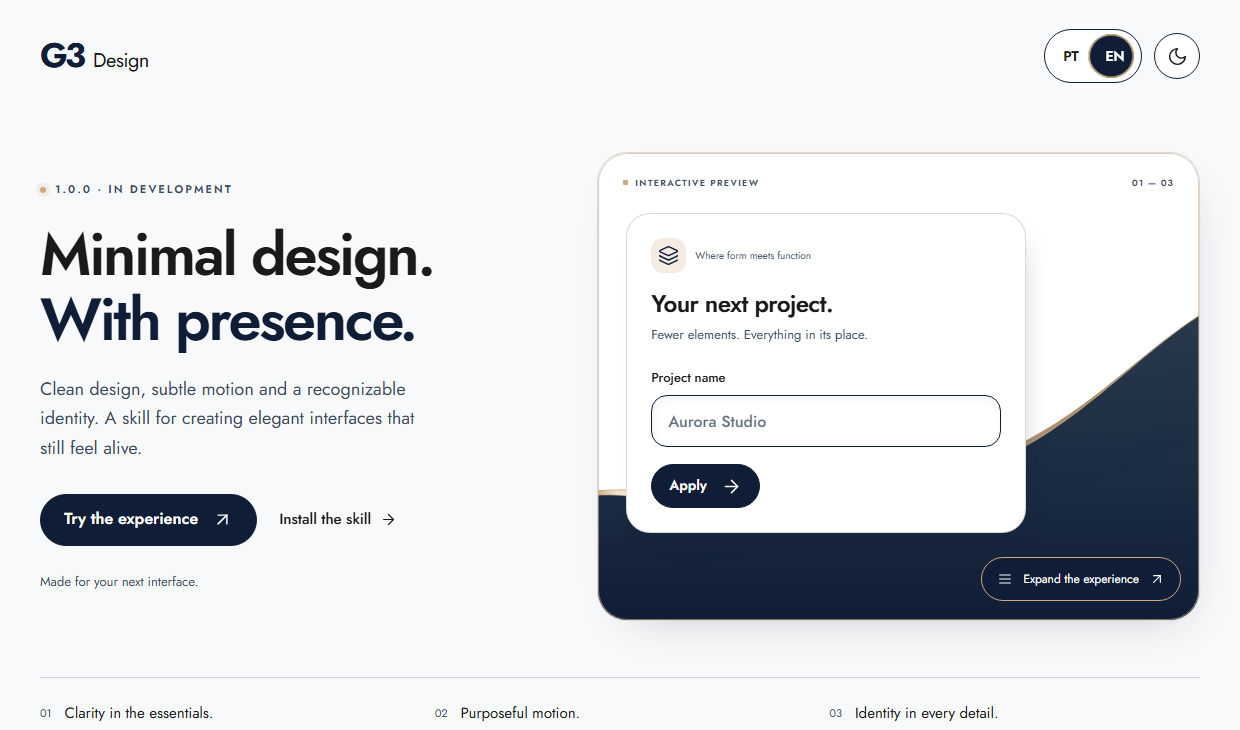
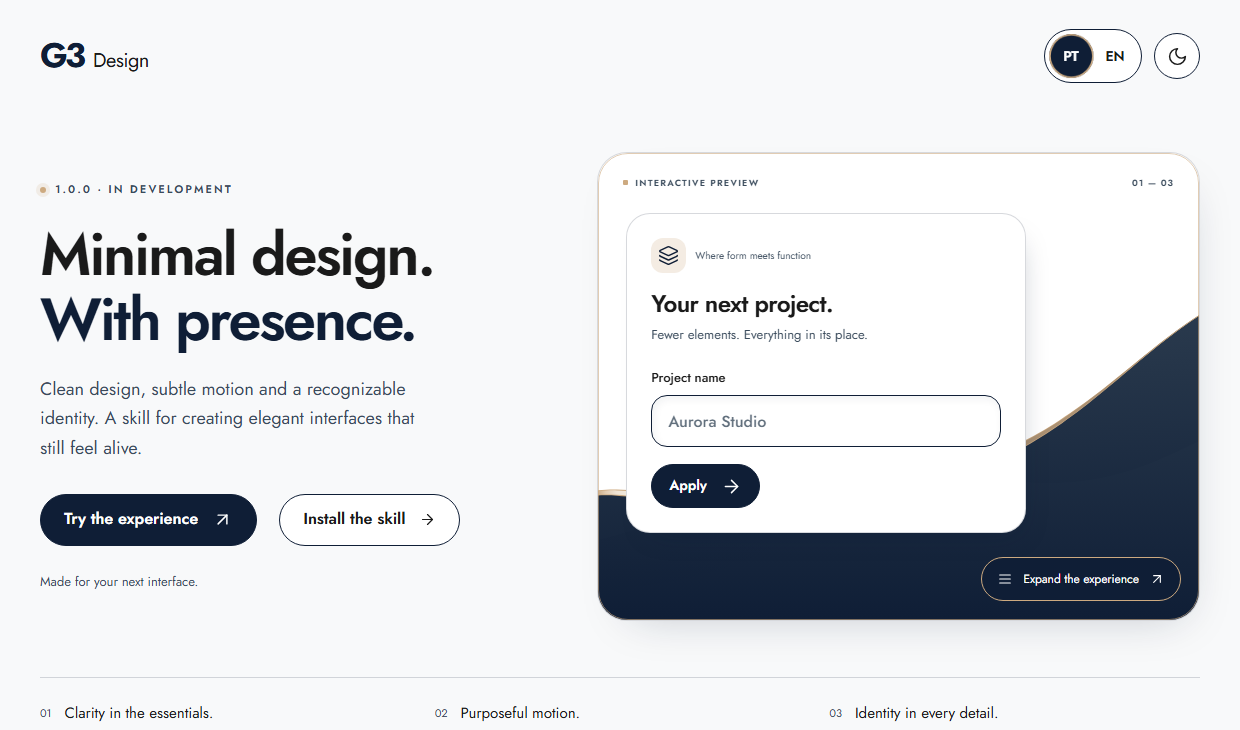
fix(demo): padronizar botao de instalacao e alinhar seta

Changed region(s): [[0.8274, 0.0301, 0.9194, 0.1205], [0.2145, 0.6932, 0.3371, 0.7233]]

diff --git a/docs/assets/demo.css b/docs/assets/demo.css
@@ -36,7 +36,7 @@ h1 { font-size: clamp(38px, 4.8vw, 64px); line-height: 1.08; letter-spacing: -2.
 .intro-actions { display: flex; align-items: center; flex-wrap: wrap; gap: 22px; margin-top: 30px; }
 .button { display: inline-flex; align-items: center; justify-content: center; gap: 14px; min-height: 52px; padding: 10px 23px; border: 1px solid var(--border); border-radius: 999px; font-size: 16px; font-weight: 600; transition: transform .24s var(--curve), box-shadow .24s, background .24s; }
 .primary { background: var(--primary); color: var(--on-primary); border-color: var(--border); }
-.text-link { display: inline-flex; align-items: center; gap: 9px; min-height: 44px; font-size: 15px; font-weight: 500; border-radius: 8px; }
+.text-link { background: var(--surface); color: var(--text); }
 .text-link svg { width: 17px; height: 17px; transition: transform .24s var(--curve); }
 .caption { font-size: 13px; color: var(--muted); }
 .intro > .caption { margin-top: 26px; }
@@ -110,7 +110,7 @@ dialog::backdrop { background: transparent; }
 @media (hover: hover) and (pointer: fine) {
   .button:hover, .icon-button:hover, .expand-chip:hover { box-shadow: 3px 8px 15px -8px color-mix(in srgb,var(--primary) 40%,transparent); }
   .button:hover > span, .button:hover > svg, .icon-button:hover > svg, .expand-chip:hover > span, .expand-chip:hover > svg { transform: translateY(-2px); }
-  .text-link:hover svg { transform: translateX(4px); }
+  .text-link:hover svg { transform: translate(4px, -2px); }
   .agents button:hover { background: color-mix(in srgb,var(--accent) 20%,var(--surface)); color: var(--text); }
   .experience-nav button:hover > span, .experience-nav button:hover > svg { transform: translateX(4px); }
 }
@@ -141,7 +141,7 @@ dialog::backdrop { background: transparent; }
   .intro { padding: 0; }
   h1 { font-size: clamp(42px,10vw,64px); margin: 22px 0; }
   .intro-copy { max-width: 460px; font-size: 17px; }
-  .intro-actions { gap: 20px; margin-top: 23px; }
+  .intro-actions { gap: 12px; margin-top: 23px; }
   .intro > .caption { margin-top: 18px; }
   .visual { min-height: 430px; border-radius: 26px; }
   .sample-card { width: calc(100% - 48px); max-width: 440px; margin-inline-start: 20px; padding: 22px; }
@@ -173,7 +173,6 @@ dialog::backdrop { background: transparent; }
   .segmented button { padding-inline: 6px; }
   .sample-card { margin-inline-start: 14px; width: calc(100% - 28px); padding: 20px; }
   .intro-actions { gap: 10px; }
-  .text-link { font-size: 14px; }
 }
 @media (prefers-reduced-motion: reduce) {
   html { scroll-behavior: auto; }

diff --git a/docs/index.html b/docs/index.html
@@ -41,7 +41,7 @@
           <p class="intro-copy" data-i18n="description">Design limpo, movimento sutil e uma identidade que se reconhece. Uma skill para criar interfaces elegantes, sem perder a vida.</p>
           <div class="intro-actions">
             <button type="button" class="button primary" id="explore"><span data-i18n="explore">Experimentar</span><svg aria-hidden="true"><use href="./assets/icons.svg#arrow-up-right"></use></svg></button>
-            <a class="text-link" href="#install"><span data-i18n="install">Instalar a skill</span><svg aria-hidden="true"><use href="./assets/icons.svg#arrow-right"></use></svg></a>
+            <a class="button text-link" href="#install"><span data-i18n="install">Instalar a skill</span><svg aria-hidden="true"><use href="./assets/icons.svg#arrow-right"></use></svg></a>
           </div>
           <p class="caption" data-i18n="builtFor">Feita para a sua próxima interface.</p>
         </div>
